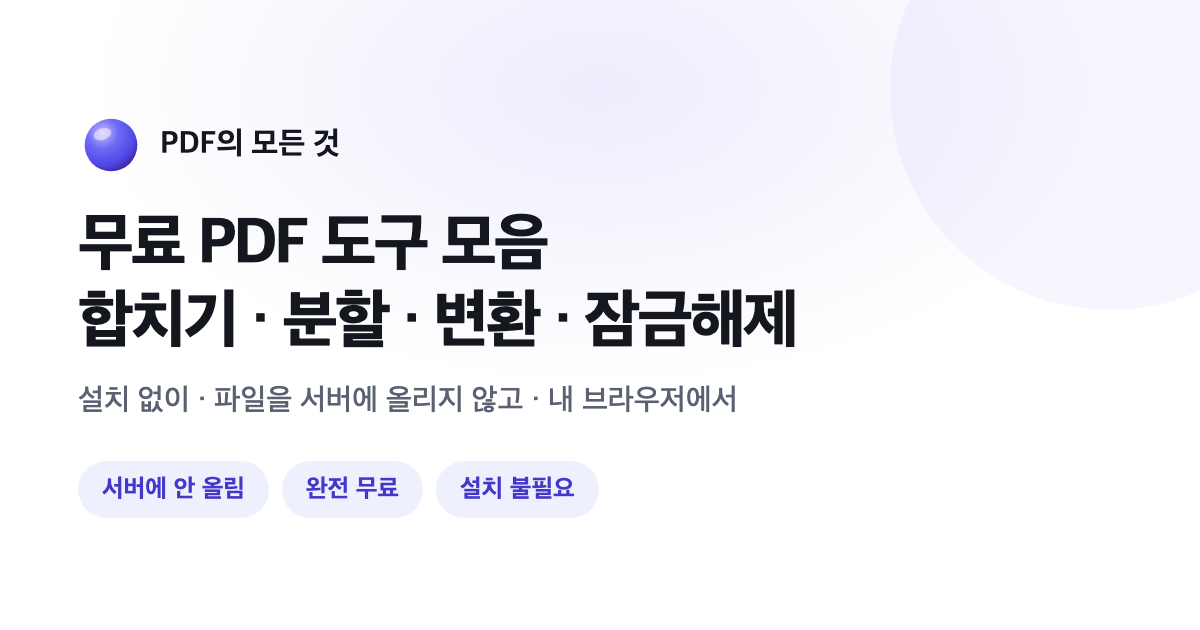
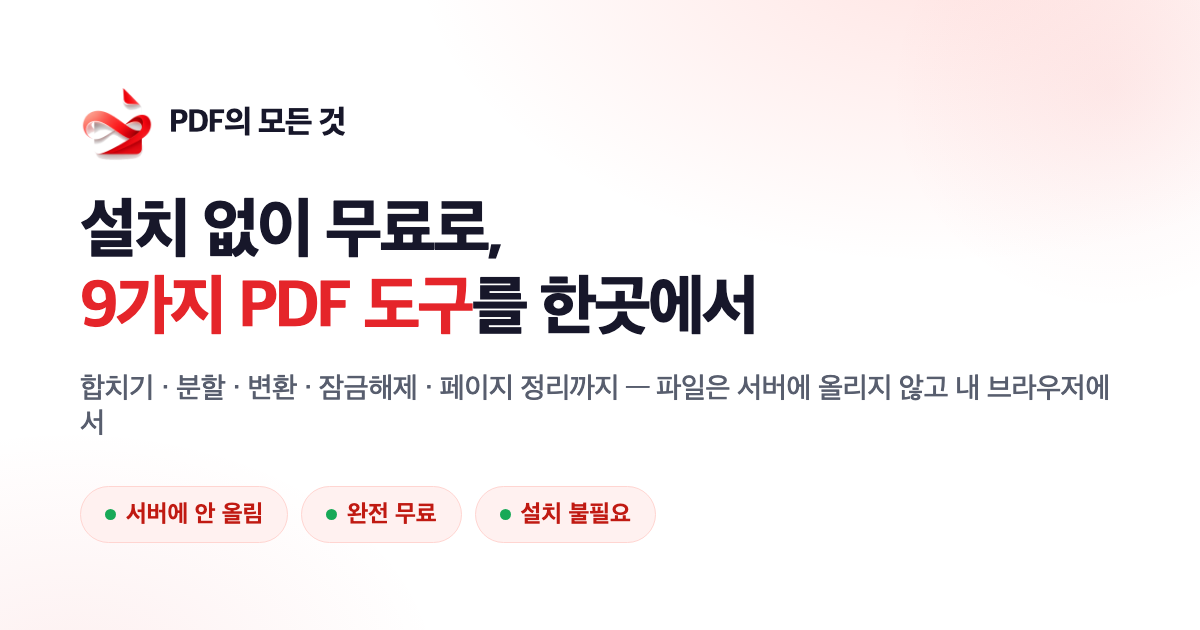
마무리(다 해줘): OG 빨강/로고 재생성 + 상세 풀스크린 다듬기 + 정사각형 카드 매력↑
- OG 공유 이미지: 인디고 → 빨강 그라데이션 + 누끼 로고 + '9가지 PDF 도구'(레드), base64 임베드
- 상세 풀스크린: 드롭존 컴팩트(옵션·버튼 더 잘 보이게)
- 홈 정사각형 카드: 아이콘 위·텍스트 아래(space-between)로 꽉 차게, 코너 소프트 레드 글로우,
  호버 시 아이콘 확대·이름 레드·화살표 등장
- 모바일: .ws-launch overflow:visible(스택 카드 안 잘림), 카드는 스크롤 리빌로 정상 표시
QA 21/21 PASS

diff --git a/assets/css/workspace.css b/assets/css/workspace.css
@@ -161,7 +161,7 @@
 .ws-trust span::before { content: ""; width: 7px; height: 7px; border-radius: 50%; background: #18a957; }
 
 /* ============ 홈 2단: 왼쪽 도구 카드 · 오른쪽 PDF 드롭 도구 ============ */
-.ws-launch--split { justify-content: center; padding: 22px 0; }
+.ws-launch--split { justify-content: center; padding: 22px 0; overflow: visible; }
 .ws-homegrid { display: grid; grid-template-columns: .96fr 1.04fr; gap: 36px; align-items: start; width: 100%; max-width: 1320px; margin: 0 auto; }
 .ws-homeright { order: 1; }
 .ws-homeleft { order: 2; }
@@ -172,12 +172,19 @@
 @media (max-width: 1000px) { .ws-launch--split .ws-tilegrid--mini { grid-template-columns: repeat(3, 1fr); } }
 @media (max-width: 620px) { .ws-launch--split .ws-tilegrid--mini { grid-template-columns: repeat(2, 1fr); } }
 @media (max-width: 380px) { .ws-launch--split .ws-tilegrid--mini { grid-template-columns: 1fr; } }
-.ws-tilegrid--mini .ws-tile { flex-direction: column; align-items: flex-start; justify-content: center; gap: 12px; aspect-ratio: 1 / 1; min-height: 0; padding: 20px 18px; }
-.ws-tilegrid--mini .ws-tile__ico { width: auto; height: auto; flex: none; }
-.ws-tilegrid--mini .ws-tile__ico .ic-svg { width: 46px; height: 46px; }
-.ws-tilegrid--mini .ws-tile__name { font-size: 1.08rem; line-height: 1.2; }
-.ws-tilegrid--mini .ws-tile__desc { font-size: 12px; margin-top: 3px; line-height: 1.4; }
-.ws-tilegrid--mini .arr { display: none; }
+.ws-tilegrid--mini .ws-tile { flex-direction: column; align-items: flex-start; justify-content: space-between; gap: 12px; aspect-ratio: 1 / 1; min-height: 0; padding: 24px 22px; }
+/* 코너 소프트 레드 글로우 (카드에 클립되어 은은한 코너 악센트) */
+.ws-tilegrid--mini .ws-tile::after { content: ""; position: absolute; top: -30px; right: -30px; width: 104px; height: 104px; border-radius: 50%; background: radial-gradient(circle, rgba(255, 91, 82, .13), transparent 68%); opacity: .6; transition: opacity .3s var(--ez), transform .3s var(--ez); pointer-events: none; }
+.ws-tilegrid--mini .ws-tile:hover::after { opacity: 1; transform: scale(1.3); }
+.ws-tilegrid--mini .ws-tile__ico { width: auto; height: auto; flex: none; position: relative; }
+.ws-tilegrid--mini .ws-tile__ico .ic-svg { width: 56px; height: 56px; transition: transform .25s var(--ez); }
+.ws-tilegrid--mini .ws-tile:hover .ws-tile__ico .ic-svg { transform: scale(1.08); }
+.ws-tilegrid--mini .ws-tile__txt { position: relative; }
+.ws-tilegrid--mini .ws-tile__name { font-size: 1.14rem; line-height: 1.2; transition: color .2s; }
+.ws-tilegrid--mini .ws-tile:hover .ws-tile__name { color: var(--red-deep); }
+.ws-tilegrid--mini .ws-tile__desc { font-size: 12.5px; margin-top: 4px; line-height: 1.4; color: var(--ink-soft); }
+.ws-tilegrid--mini .arr { display: block; position: absolute; bottom: 22px; right: 22px; width: 20px; height: 20px; color: var(--red); opacity: 0; transform: translateX(-5px); transition: opacity .22s, transform .22s var(--ez); }
+.ws-tilegrid--mini .ws-tile:hover .arr { opacity: 1; transform: translateX(0); }
 /* 오른쪽: 드롭 도구 창 */
 .ws-homeright .ws-window { box-shadow: var(--sh-lg); }
 .ws-homeright .ws-winbar .ws-wintitle svg { color: var(--red); }
@@ -298,6 +305,9 @@
 .tp-toolbody { flex: 1 1 auto; min-height: 0; overflow: auto; padding: 26px; display: flex; flex-direction: column; justify-content: safe center; }
 @media (max-width: 560px) { .tp-toolbody { padding: 16px; justify-content: flex-start; } .tp-window { min-height: calc(100vh - 220px); } }
 .ws .tp-toolbody .tool { background: transparent; border: 0; border-radius: 0; box-shadow: none; padding: 0; width: 100%; max-width: 760px; margin: 0 auto; }
+/* 풀스크린: 드롭존 컴팩트 → 옵션·실행 버튼이 더 잘 보이게 */
+.ws .tp-toolbody .dropzone { padding: 28px 22px; }
+.ws .tp-toolbody .dropzone__icon { width: 42px; height: 42px; margin-bottom: 8px; }
 
 .tp-info { padding: 50px 0 84px; }
 .tp-lead { font-size: 1.18rem; line-height: 1.8; color: var(--ink-soft); max-width: 70ch; font-weight: 450; }

diff --git a/404.html b/404.html
@@ -21,9 +21,9 @@
   <link rel="apple-touch-icon" href="https://inno-hi-inc.github.io/all-about-pdf/assets/img/logo.png">
   <link rel="manifest" href="https://inno-hi-inc.github.io/all-about-pdf/site.webmanifest">
   <meta name="theme-color" content="#4f46e5">
-  <link rel="stylesheet" href="https://inno-hi-inc.github.io/all-about-pdf/assets/css/style.css?v=1781510622551">
+  <link rel="stylesheet" href="https://inno-hi-inc.github.io/all-about-pdf/assets/css/style.css?v=1781511600656">
   <script>document.documentElement.className+=" js";</script>
-  <link rel="stylesheet" href="https://inno-hi-inc.github.io/all-about-pdf/assets/css/workspace.css?v=1781510622551">
+  <link rel="stylesheet" href="https://inno-hi-inc.github.io/all-about-pdf/assets/css/workspace.css?v=1781511600656">
 </head>
 <body class="ws tp">
   <a class="skip-link" href="#main">본문 바로가기</a>

diff --git a/about/index.html b/about/index.html
@@ -22,9 +22,9 @@
   <link rel="apple-touch-icon" href="../assets/img/logo.png">
   <link rel="manifest" href="../site.webmanifest">
   <meta name="theme-color" content="#4f46e5">
-  <link rel="stylesheet" href="../assets/css/style.css?v=1781510622551">
+  <link rel="stylesheet" href="../assets/css/style.css?v=1781511600656">
   <script>document.documentElement.className+=" js";</script>
-  <link rel="stylesheet" href="../assets/css/workspace.css?v=1781510622551">
+  <link rel="stylesheet" href="../assets/css/workspace.css?v=1781511600656">
 </head>
 <body class="ws tp">
   <a class="skip-link" href="#main">본문 바로가기</a>

diff --git a/delete/index.html b/delete/index.html
@@ -22,9 +22,9 @@
   <link rel="apple-touch-icon" href="../assets/img/logo.png">
   <link rel="manifest" href="../site.webmanifest">
   <meta name="theme-color" content="#4f46e5">
-  <link rel="stylesheet" href="../assets/css/style.css?v=1781510622551">
+  <link rel="stylesheet" href="../assets/css/style.css?v=1781511600656">
   <script>document.documentElement.className+=" js";</script>
-  <link rel="stylesheet" href="../assets/css/workspace.css?v=1781510622551">
+  <link rel="stylesheet" href="../assets/css/workspace.css?v=1781511600656">
   <script type="application/ld+json">[{"@context":"https://schema.org","@type":"WebApplication","name":"PDF 페이지 삭제 - PDF의 모든 것","url":"https://inno-hi-inc.github.io/all-about-pdf/delete/","applicationCategory":"UtilitiesApplication","operatingSystem":"All","browserRequirements":"Requires JavaScript","inLanguage":"ko","isAccessibleForFree":true,"offers":{"@type":"Offer","price":"0","priceCurrency":"KRW"},"featureList":["특정 페이지 삭제","여러 페이지 일괄","원본 보존"],"publisher":{"@type":"Organization","name":"PDF의 모든 것","url":"https://inno-hi-inc.github.io/all-about-pdf/"}},{"@context":"https://schema.org","@type":"BreadcrumbList","itemListElement":[{"@type":"ListItem","position":1,"name":"홈","item":"https://inno-hi-inc.github.io/all-about-pdf/"},{"@type":"ListItem","position":2,"name":"PDF 페이지 삭제","item":"https://inno-hi-inc.github.io/all-about-pdf/delete/"}]}]</script>
 </head>
 <body class="ws tp">

diff --git a/extract/index.html b/extract/index.html
@@ -22,9 +22,9 @@
   <link rel="apple-touch-icon" href="../assets/img/logo.png">
   <link rel="manifest" href="../site.webmanifest">
   <meta name="theme-color" content="#4f46e5">
-  <link rel="stylesheet" href="../assets/css/style.css?v=1781510622551">
+  <link rel="stylesheet" href="../assets/css/style.css?v=1781511600656">
   <script>document.documentElement.className+=" js";</script>
-  <link rel="stylesheet" href="../assets/css/workspace.css?v=1781510622551">
+  <link rel="stylesheet" href="../assets/css/workspace.css?v=1781511600656">
   <script type="application/ld+json">[{"@context":"https://schema.org","@type":"WebApplication","name":"PDF 페이지 추출 - PDF의 모든 것","url":"https://inno-hi-inc.github.io/all-about-pdf/extract/","applicationCategory":"UtilitiesApplication","operatingSystem":"All","browserRequirements":"Requires JavaScript","inLanguage":"ko","isAccessibleForFree":true,"offers":{"@type":"Offer","price":"0","priceCurrency":"KRW"},"featureList":["특정 페이지 추출","여러 구간 지정","순서 유지"],"publisher":{"@type":"Organization","name":"PDF의 모든 것","url":"https://inno-hi-inc.github.io/all-about-pdf/"}},{"@context":"https://schema.org","@type":"BreadcrumbList","itemListElement":[{"@type":"ListItem","position":1,"name":"홈","item":"https://inno-hi-inc.github.io/all-about-pdf/"},{"@type":"ListItem","position":2,"name":"PDF 페이지 추출","item":"https://inno-hi-inc.github.io/all-about-pdf/extract/"}]}]</script>
 </head>
 <body class="ws tp">

diff --git a/image-to-pdf/index.html b/image-to-pdf/index.html
@@ -22,9 +22,9 @@
   <link rel="apple-touch-icon" href="../assets/img/logo.png">
   <link rel="manifest" href="../site.webmanifest">
   <meta name="theme-color" content="#4f46e5">
-  <link rel="stylesheet" href="../assets/css/style.css?v=1781510622551">
+  <link rel="stylesheet" href="../assets/css/style.css?v=1781511600656">
   <script>document.documentElement.className+=" js";</script>
-  <link rel="stylesheet" href="../assets/css/workspace.css?v=1781510622551">
+  <link rel="stylesheet" href="../assets/css/workspace.css?v=1781511600656">
   <script type="application/ld+json">[{"@context":"https://schema.org","@type":"WebApplication","name":"이미지 PDF 변환 - PDF의 모든 것","url":"https://inno-hi-inc.github.io/all-about-pdf/image-to-pdf/","applicationCategory":"UtilitiesApplication","operatingSystem":"All","browserRequirements":"Requires JavaScript","inLanguage":"ko","isAccessibleForFree":true,"offers":{"@type":"Offer","price":"0","priceCurrency":"KRW"},"featureList":["JPG·PNG → PDF","여러 장 한 파일로","순서 변경"],"publisher":{"@type":"Organization","name":"PDF의 모든 것","url":"https://inno-hi-inc.github.io/all-about-pdf/"}},{"@context":"https://schema.org","@type":"BreadcrumbList","itemListElement":[{"@type":"ListItem","position":1,"name":"홈","item":"https://inno-hi-inc.github.io/all-about-pdf/"},{"@type":"ListItem","position":2,"name":"이미지 PDF 변환","item":"https://inno-hi-inc.github.io/all-about-pdf/image-to-pdf/"}]}]</script>
 </head>
 <body class="ws tp">

diff --git a/index.html b/index.html
@@ -22,9 +22,9 @@
   <link rel="apple-touch-icon" href="assets/img/logo.png">
   <link rel="manifest" href="site.webmanifest">
   <meta name="theme-color" content="#4f46e5">
-  <link rel="stylesheet" href="assets/css/style.css?v=1781510622551">
+  <link rel="stylesheet" href="assets/css/style.css?v=1781511600656">
   <script>document.documentElement.className+=" js";</script>
-  <link rel="stylesheet" href="assets/css/workspace.css?v=1781510622551">
+  <link rel="stylesheet" href="assets/css/workspace.css?v=1781511600656">
   <script type="application/ld+json">[{"@context":"https://schema.org","@type":"WebSite","name":"PDF의 모든 것","url":"https://inno-hi-inc.github.io/all-about-pdf/","inLanguage":"ko","description":"설치도 회원가입도 없이 무료로 쓰는 PDF 도구 모음. 파일을 서버에 올리지 않고 내 브라우저에서 바로 합치기·분할·변환·잠금해제까지 처리합니다."},{"@context":"https://schema.org","@type":"Organization","name":"PDF의 모든 것","url":"https://inno-hi-inc.github.io/all-about-pdf/","sameAs":["https://github.com/INNO-HI-Inc/all-about-pdf"]}]</script>
 </head>
 <body class="ws home">

diff --git a/merge/index.html b/merge/index.html
@@ -22,9 +22,9 @@
   <link rel="apple-touch-icon" href="../assets/img/logo.png">
   <link rel="manifest" href="../site.webmanifest">
   <meta name="theme-color" content="#4f46e5">
-  <link rel="stylesheet" href="../assets/css/style.css?v=1781510622551">
+  <link rel="stylesheet" href="../assets/css/style.css?v=1781511600656">
   <script>document.documentElement.className+=" js";</script>
-  <link rel="stylesheet" href="../assets/css/workspace.css?v=1781510622551">
+  <link rel="stylesheet" href="../assets/css/workspace.css?v=1781511600656">
   <script type="application/ld+json">[{"@context":"https://schema.org","@type":"WebApplication","name":"PDF 합치기 - PDF의 모든 것","url":"https://inno-hi-inc.github.io/all-about-pdf/merge/","applicationCategory":"UtilitiesApplication","operatingSystem":"All","browserRequirements":"Requires JavaScript","inLanguage":"ko","isAccessibleForFree":true,"offers":{"@type":"Offer","price":"0","priceCurrency":"KRW"},"featureList":["여러 PDF 병합","페이지 순서 변경","무료·무제한"],"publisher":{"@type":"Organization","name":"PDF의 모든 것","url":"https://inno-hi-inc.github.io/all-about-pdf/"}},{"@context":"https://schema.org","@type":"BreadcrumbList","itemListElement":[{"@type":"ListItem","position":1,"name":"홈","item":"https://inno-hi-inc.github.io/all-about-pdf/"},{"@type":"ListItem","position":2,"name":"PDF 합치기","item":"https://inno-hi-inc.github.io/all-about-pdf/merge/"}]}]</script>
 </head>
 <body class="ws tp">

diff --git a/organize/index.html b/organize/index.html
@@ -22,9 +22,9 @@
   <link rel="apple-touch-icon" href="../assets/img/logo.png">
   <link rel="manifest" href="../site.webmanifest">
   <meta name="theme-color" content="#4f46e5">
-  <link rel="stylesheet" href="../assets/css/style.css?v=1781510622551">
+  <link rel="stylesheet" href="../assets/css/style.css?v=1781511600656">
   <script>document.documentElement.className+=" js";</script>
-  <link rel="stylesheet" href="../assets/css/workspace.css?v=1781510622551">
+  <link rel="stylesheet" href="../assets/css/workspace.css?v=1781511600656">
   <script type="application/ld+json">[{"@context":"https://schema.org","@type":"WebApplication","name":"PDF 페이지 정리 - PDF의 모든 것","url":"https://inno-hi-inc.github.io/all-about-pdf/organize/","applicationCategory":"UtilitiesApplication","operatingSystem":"All","browserRequirements":"Requires JavaScript","inLanguage":"ko","isAccessibleForFree":true,"offers":{"@type":"Offer","price":"0","priceCurrency":"KRW"},"featureList":["드래그로 순서 변경","페이지별 회전","페이지 삭제"],"publisher":{"@type":"Organization","name":"PDF의 모든 것","url":"https://inno-hi-inc.github.io/all-about-pdf/"}},{"@context":"https://schema.org","@type":"BreadcrumbList","itemListElement":[{"@type":"ListItem","position":1,"name":"홈","item":"https://inno-hi-inc.github.io/all-about-pdf/"},{"@type":"ListItem","position":2,"name":"PDF 페이지 정리","item":"https://inno-hi-inc.github.io/all-about-pdf/organize/"}]}]</script>
 </head>
 <body class="ws tp">

diff --git a/page-numbers/index.html b/page-numbers/index.html
@@ -22,9 +22,9 @@
   <link rel="apple-touch-icon" href="../assets/img/logo.png">
   <link rel="manifest" href="../site.webmanifest">
   <meta name="theme-color" content="#4f46e5">
-  <link rel="stylesheet" href="../assets/css/style.css?v=1781510622551">
+  <link rel="stylesheet" href="../assets/css/style.css?v=1781511600656">
   <script>document.documentElement.className+=" js";</script>
-  <link rel="stylesheet" href="../assets/css/workspace.css?v=1781510622551">
+  <link rel="stylesheet" href="../assets/css/workspace.css?v=1781511600656">
   <script type="application/ld+json">[{"@context":"https://schema.org","@type":"WebApplication","name":"PDF 페이지 번호 넣기 - PDF의 모든 것","url":"https://inno-hi-inc.github.io/all-about-pdf/page-numbers/","applicationCategory":"UtilitiesApplication","operatingSystem":"All","browserRequirements":"Requires JavaScript","inLanguage":"ko","isAccessibleForFree":true,"offers":{"@type":"Offer","price":"0","priceCurrency":"KRW"},"featureList":["위치·형식 선택","시작 번호 지정","표지 제외"],"publisher":{"@type":"Organization","name":"PDF의 모든 것","url":"https://inno-hi-inc.github.io/all-about-pdf/"}},{"@context":"https://schema.org","@type":"BreadcrumbList","itemListElement":[{"@type":"ListItem","position":1,"name":"홈","item":"https://inno-hi-inc.github.io/all-about-pdf/"},{"@type":"ListItem","position":2,"name":"PDF 페이지 번호 넣기","item":"https://inno-hi-inc.github.io/all-about-pdf/page-numbers/"}]}]</script>
 </head>
 <body class="ws tp">

diff --git a/split/index.html b/split/index.html
@@ -22,9 +22,9 @@
   <link rel="apple-touch-icon" href="../assets/img/logo.png">
   <link rel="manifest" href="../site.webmanifest">
   <meta name="theme-color" content="#4f46e5">
-  <link rel="stylesheet" href="../assets/css/style.css?v=1781510622551">
+  <link rel="stylesheet" href="../assets/css/style.css?v=1781511600656">
   <script>document.documentElement.className+=" js";</script>
-  <link rel="stylesheet" href="../assets/css/workspace.css?v=1781510622551">
+  <link rel="stylesheet" href="../assets/css/workspace.css?v=1781511600656">
   <script type="application/ld+json">[{"@context":"https://schema.org","@type":"WebApplication","name":"PDF 분할 - PDF의 모든 것","url":"https://inno-hi-inc.github.io/all-about-pdf/split/","applicationCategory":"UtilitiesApplication","operatingSystem":"All","browserRequirements":"Requires JavaScript","inLanguage":"ko","isAccessibleForFree":true,"offers":{"@type":"Offer","price":"0","priceCurrency":"KRW"},"featureList":["낱장 분리","범위 지정 분할","ZIP 일괄 다운로드"],"publisher":{"@type":"Organization","name":"PDF의 모든 것","url":"https://inno-hi-inc.github.io/all-about-pdf/"}},{"@context":"https://schema.org","@type":"BreadcrumbList","itemListElement":[{"@type":"ListItem","position":1,"name":"홈","item":"https://inno-hi-inc.github.io/all-about-pdf/"},{"@type":"ListItem","position":2,"name":"PDF 분할","item":"https://inno-hi-inc.github.io/all-about-pdf/split/"}]}]</script>
 </head>
 <body class="ws tp">

diff --git a/to-image/index.html b/to-image/index.html
@@ -22,9 +22,9 @@
   <link rel="apple-touch-icon" href="../assets/img/logo.png">
   <link rel="manifest" href="../site.webmanifest">
   <meta name="theme-color" content="#4f46e5">
-  <link rel="stylesheet" href="../assets/css/style.css?v=1781510622551">
+  <link rel="stylesheet" href="../assets/css/style.css?v=1781511600656">
   <script>document.documentElement.className+=" js";</script>
-  <link rel="stylesheet" href="../assets/css/workspace.css?v=1781510622551">
+  <link rel="stylesheet" href="../assets/css/workspace.css?v=1781511600656">
   <script type="application/ld+json">[{"@context":"https://schema.org","@type":"WebApplication","name":"PDF JPG 변환 - PDF의 모든 것","url":"https://inno-hi-inc.github.io/all-about-pdf/to-image/","applicationCategory":"UtilitiesApplication","operatingSystem":"All","browserRequirements":"Requires JavaScript","inLanguage":"ko","isAccessibleForFree":true,"offers":{"@type":"Offer","price":"0","priceCurrency":"KRW"},"featureList":["PNG·JPG 변환","화질(배율) 선택","페이지 지정"],"publisher":{"@type":"Organization","name":"PDF의 모든 것","url":"https://inno-hi-inc.github.io/all-about-pdf/"}},{"@context":"https://schema.org","@type":"BreadcrumbList","itemListElement":[{"@type":"ListItem","position":1,"name":"홈","item":"https://inno-hi-inc.github.io/all-about-pdf/"},{"@type":"ListItem","position":2,"name":"PDF JPG 변환","item":"https://inno-hi-inc.github.io/all-about-pdf/to-image/"}]}]</script>
 </head>
 <body class="ws tp">